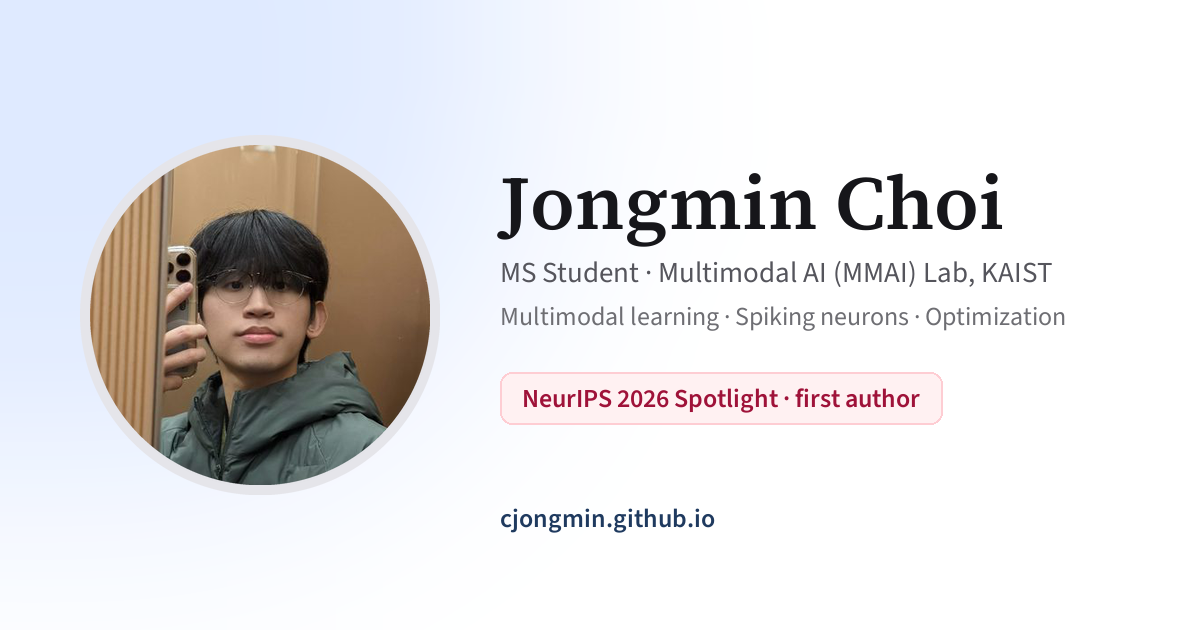
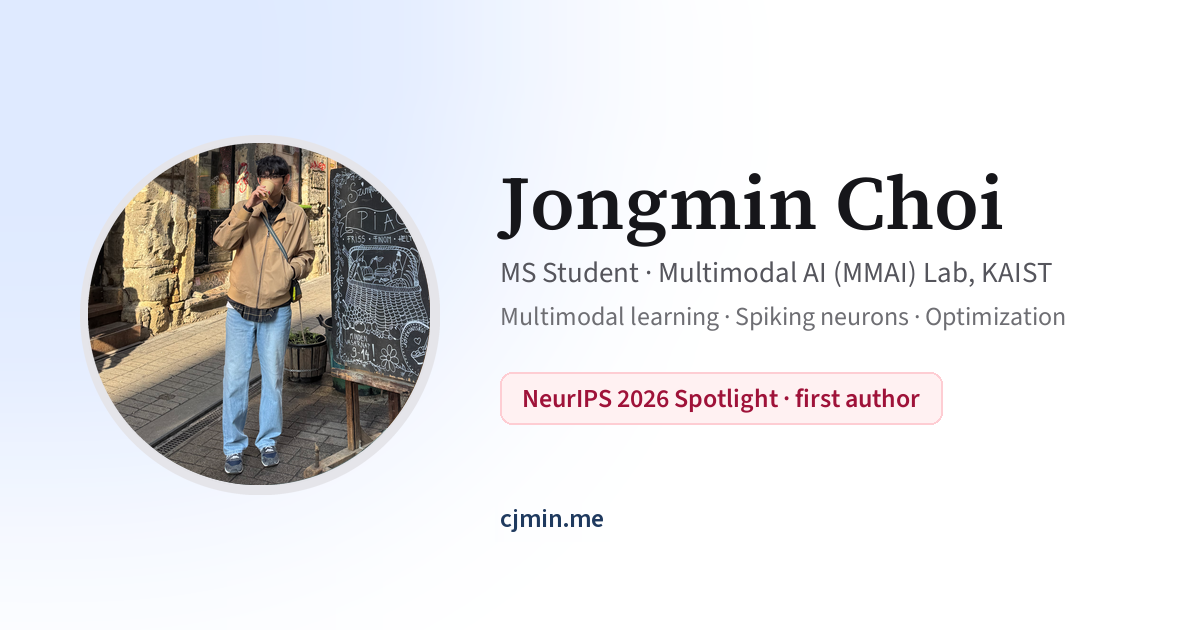
Profile: a new photo from Budapest
The home page shows it whole, head to shoes. The small avatars in talk posts
use a closer crop of the same photo, since a whole figure is unreadable at
40 px. The link-preview card gets the new photo and today's address.

Changed region(s): [[0.0617, 0.2111, 0.37, 0.7841], [0.4317, 0.8143, 0.6167, 0.8444]]

diff --git a/src/components/TalkDetail.tsx b/src/components/TalkDetail.tsx
@@ -162,7 +162,7 @@ export default function TalkDetail({ talk, onClose, onNavigate, standalone = fal
             <div className="mt-7 flex items-center gap-3">
               {profile.profileImage && (
                 <img
-                  src={profile.profileImage}
+                  src={people[profile.name]?.photo ?? profile.profileImage}
                   alt=""
                   className="w-10 h-10 rounded-full object-cover ring-1 ring-black/[0.08] dark:ring-white/[0.12]"
                 />
